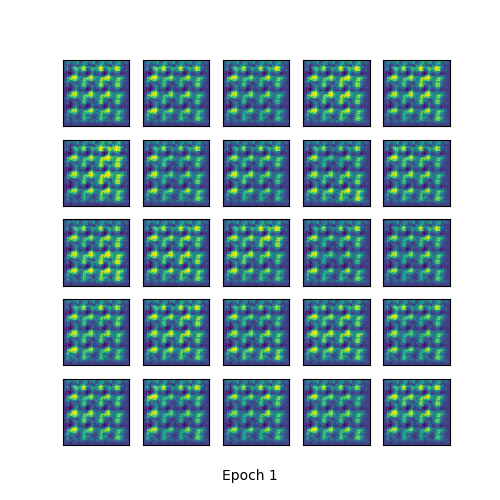
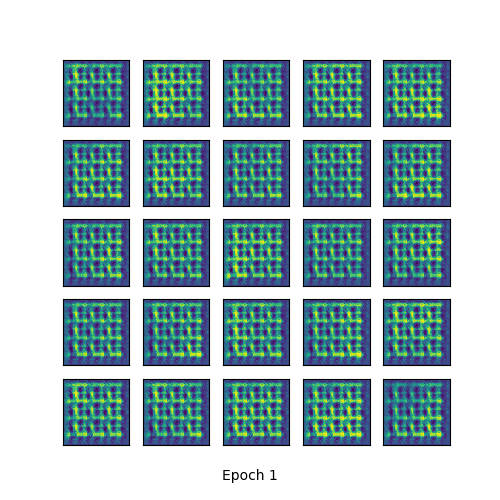
Start random restarts

diff --git a/pytorch_CelebA_DCGAN.py b/pytorch_CelebA_DCGAN.py
@@ -135,7 +135,7 @@ def show_train_hist(hist, show = False, save = False, path = 'Train_hist.png'):
 # training parameters
 batch_size = 128
 lr = 0.0002
-train_epoch = 25
+train_epoch = 1
 
 # data_loader
 img_size = 64
